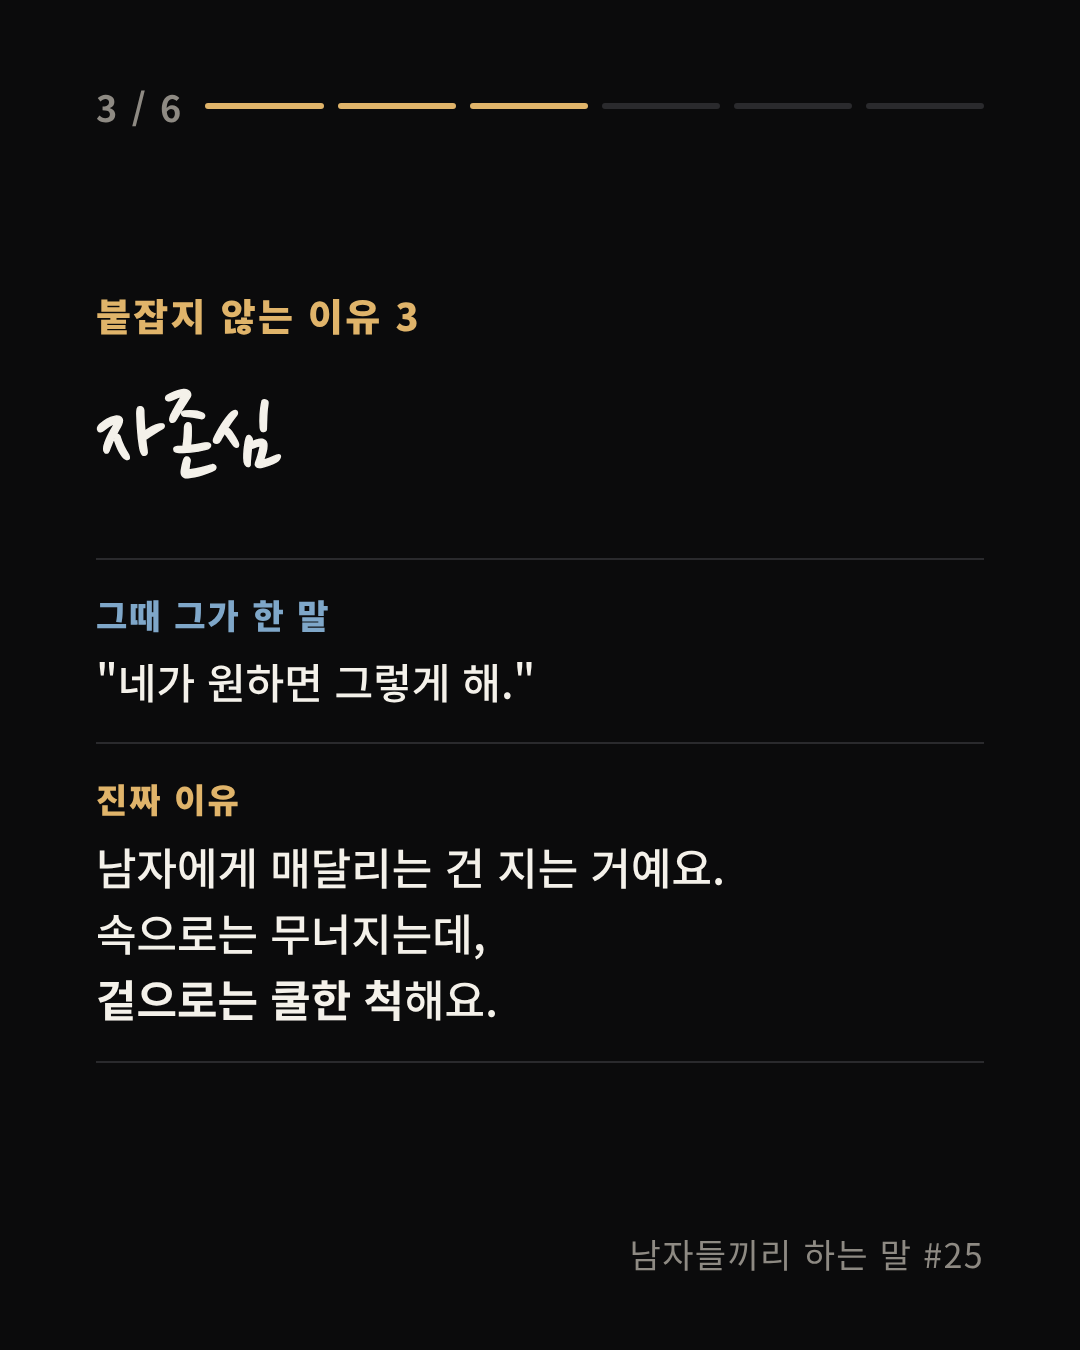
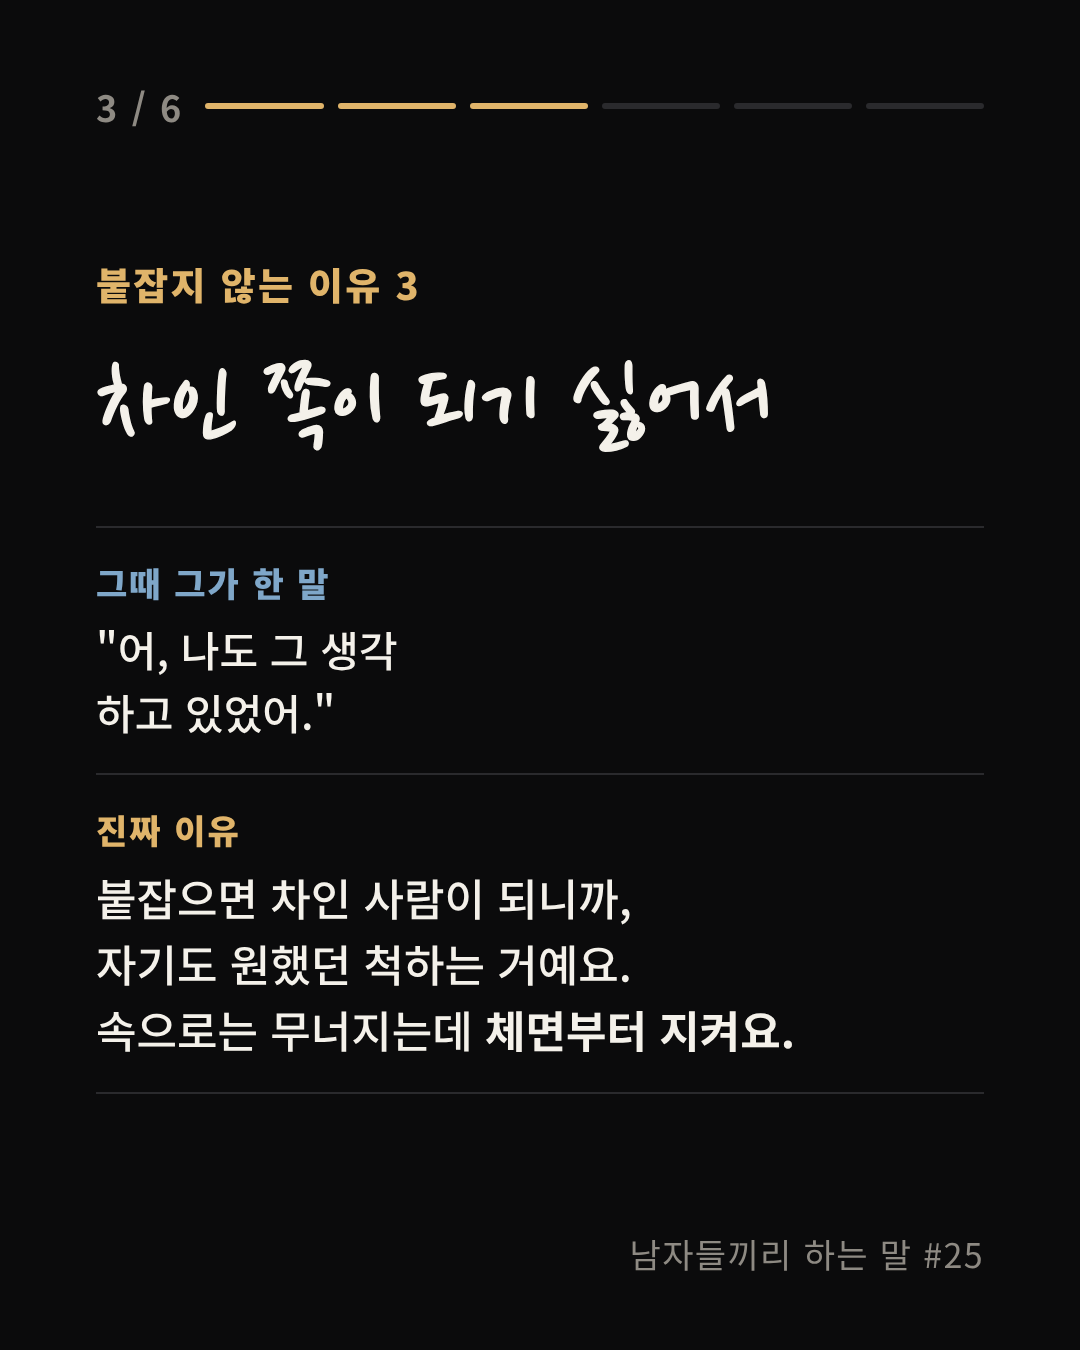
#25 이유 3: 자존심 → 차인 쪽이 되기 싫어서 (4번과 겹치던 말 교체)
Claude-Session: https://claude.ai/code/session_01J9i5yL8MFhQ5W67Sx3nDW6

Changed region(s): [[0.0917, 0.4044, 0.7333, 0.7778], [0.0917, 0.1867, 0.7333, 0.3733]]

diff --git a/carousel/carousel_25.html b/carousel/carousel_25.html
@@ -190,10 +190,10 @@
 <section class="slide" id="s5">
   <div class="prog"><span class="lbl">3 / 6</span><i class="on"></i><i class="on"></i><i class="on"></i><i class=""></i><i class=""></i><i class=""></i></div>
   <div class="who">붙잡지 않는 이유 3</div>
-  <div class="sig">자존심</div>
+  <div class="sig">차인 쪽이 되기 싫어서</div>
   <div class="tr">
-    <div class="r"><div class="k cold">그때 그가 한 말</div><div class="v see">"네가 원하면 그렇게 해."</div></div>
-    <div class="r"><div class="k accent">진짜 이유</div><div class="v">남자에게 매달리는 건 지는 거예요.<br>속으로는 무너지는데,<br><b>겉으로는 쿨한 척</b>해요.</div></div>
+    <div class="r"><div class="k cold">그때 그가 한 말</div><div class="v see">"어, 나도 그 생각<br>하고 있었어."</div></div>
+    <div class="r"><div class="k accent">진짜 이유</div><div class="v">붙잡으면 차인 사람이 되니까,<br>자기도 원했던 척하는 거예요.<br>속으로는 무너지는데 <b>체면부터 지켜요.</b></div></div>
   </div>
   <div class="series">남자들끼리 하는 말 #25</div>
 </section>

diff --git a/carousel/plan90/captions90.md b/carousel/plan90/captions90.md
@@ -524,7 +524,7 @@
 마지막에 그가 한 말로 구별할 수 있어요.
 
 "우리 또 이럴 거잖아." → 같은 싸움을 또 할 자신이 없는 거예요.
-"네가 원하면 그렇게 해." → 속은 무너지는데 쿨한 척하는 거예요.
+"어, 나도 그 생각 하고 있었어." → 차인 쪽이 되기 싫어서 원했던 척하는 거예요.
 "그동안 고마웠어." → 이미 정리가 끝난 사람의 말이에요.
 
 붙잡지 않았다고 사랑하지 않은 건 아니에요.
